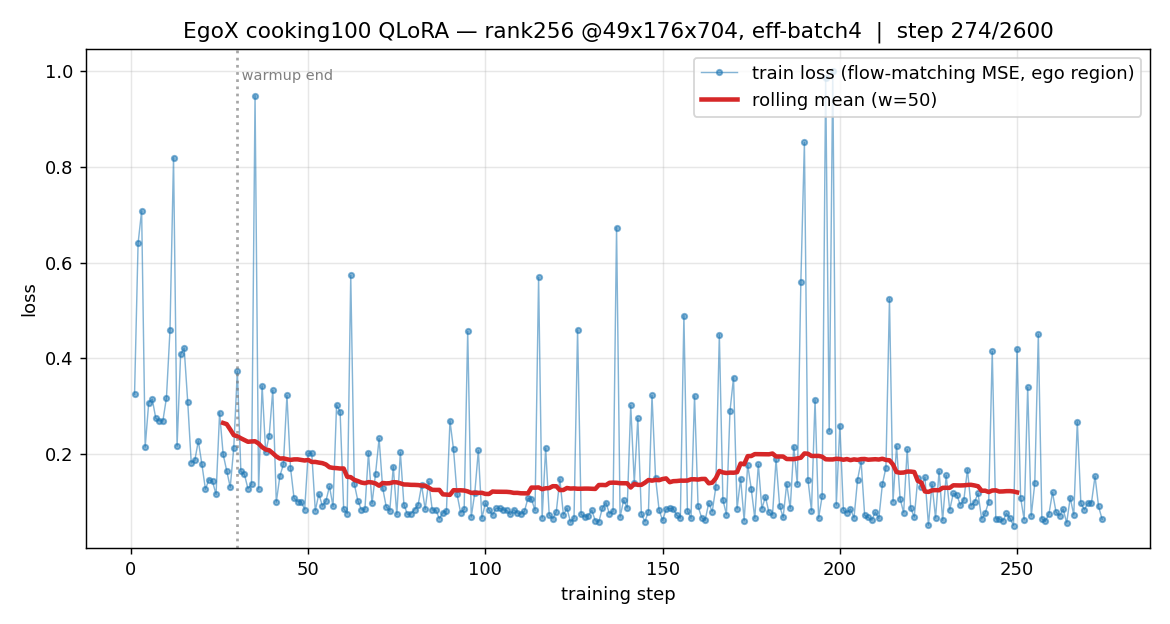
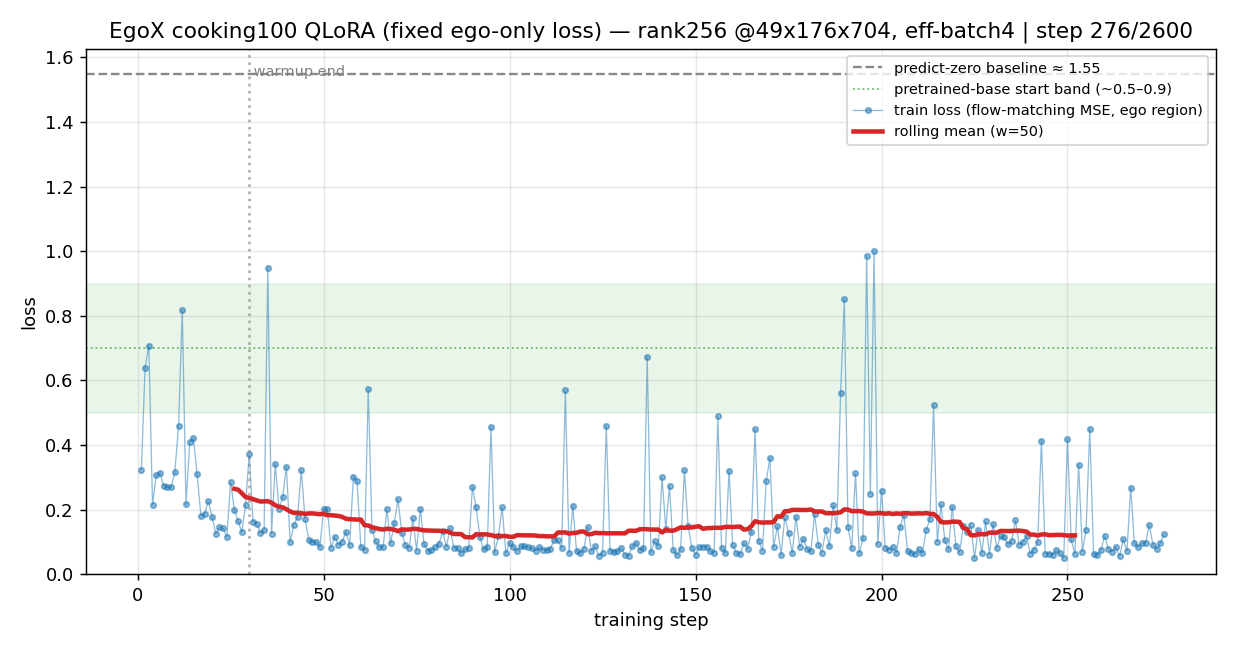
Prior investigation: vitL≈vitS + misalignment root-cause (depth geometry, not camera angle)
- §1 ego-prior: vitL empirical (coverage 0.330 vs 0.369, r=0.90 -> depth backbone
  not a lever) + prior<->ego_GT misalignment root-cause: orientation sweep shows the
  renderer's camera angle is CORRECT (ccw best of id/cw/ccw/180); the 'twist' is the
  point-cloud depth geometry (ViPE mono-depth scale + wide exo->ego baseline), a
  train/infer-consistent quality ceiling, not a bug. Levers updated (metric depth /
  MPS points; vitL ruled out).
- Add diagnostics: scripts/pipeline/run_vitL_prior_cmp.sh.
- Add eval/prior preview artifacts (GGA fix A/B, ego-cropped GT|Prior|Predicted,
  vitS-vs-vitL, orientation sweep, alignment overlays).

Changed region(s): [[0.0, 0.0304, 1.0, 0.9744], [0.5231, 0.3654, 0.5538, 0.3958], [0.1231, 0.2436, 0.1538, 0.274]]

diff --git a/QLORA_TRAINING_PLAN.md b/QLORA_TRAINING_PLAN.md
@@ -72,6 +72,14 @@ setsid nohup bash -c 'PYTHONNOUSERSITE=1 HF_HUB_ENABLE_HF_TRANSFER=0 \
 - Only the **depth** stage differs (VDA backbone). Intrinsics identical; per-clip speed ~same as vitL.
 - The win is **memory → parallelism**, not per-clip speed. Cost: slightly more temporal depth flicker.
 - Checkpoints local: `~/.cache/torch/hub/checkpoints/video_depth_anything_vits.pth` (+ dinov2_vits14, MoGe-2).
+- **EMPIRICAL (2026-06-24): vitL does NOT improve the prior.** Ran `lyra` (vitL) on
+  `fair_cooking_06_6_1000_1048` (isolated `/media/skr/SeagateHub1/egoexo4d/vitL_prior_cmp/`,
+  `local/run_vitL_prior_cmp.sh`) vs the dataset's vitS prior: prior **coverage 0.330 (vitL) vs 0.369
+  (vitS)** — vitL is marginally *sparser*; depths agree at **Pearson r=0.90 / 7.5% median rel-diff**
+  (vitL only adds depth range [0.4,30] vs [0.5,8.8], irrelevant to the close ego view). The prior's
+  sparsity is set by the **renderer** (background-only + subsample + splat + exo→ego occlusion), not
+  the depth backbone → **vitS is the right choice; upgrading depth is not a lever** (see §1 prior levers).
+  Compare GIF: `previews/prior_vitS_vs_vitL.gif`.
 
 ### Inspection previews (built for the 5-sample test)
 `previews/vits5_grid.png` (5× ego_GT|ego_Prior), `previews/vits5/<clip>_cmp.mp4` (exo|ego_GT|ego_Prior),
@@ -105,10 +113,26 @@ poorer than the paper's (vitS + no-SLAM + background-only) → it carries little
 which plausibly limits ceiling on hand-object fidelity. ckpt-100's predicted ego (coarse warm field where
 GT has food + gray blob where hands are) is consistent with "tracking the coarse prior, undertrained for detail."
 
-**Levers if priors prove limiting (cost ↑):** (a) vitL depth; (b) feed Aria MPS semi-dense SLAM points
-(renderer already prefers them → much denser); (c) larger `point_size` / no subsample / point dilation;
-(d) keep foreground (drop the `instance==0` filter) so hands appear in the prior. Defer until a *mature*
-checkpoint shows the prior — not training maturity — is the bottleneck.
+**Prior↔ego_GT MISALIGNMENT (investigated 2026-06-24):** overlaying the prior on ego_GT shows the
+board/counter are **warped/"twisted"**, not crisply aligned. Root-caused:
+- **NOT a camera-angle / projection-orientation bug.** `render_points_fisheye` (`:989-1005`) applies an
+  OpenCV→pytorch3d flip + a hard-coded **90° CCW** "aria_cam" rotation. Swept that rotation
+  (id/cw/ccw/180, `previews/prior_orient_row.png`): the default **ccw is the best of the four** (board
+  ~horizontal & central like GT; others rotate it away) → orientation handling is **correct**.
+- **IT IS the point-cloud depth geometry.** The residual warp survives every rotation → the 3D points are
+  mis-placed: **ViPE monocular-depth scale** (not metric-aligned to the Aria-MPS ego world) + **wide
+  exo→ego baseline** + pose error → points land at wrong distance and **smear along viewing rays**.
+  The projection math is fine; its *input geometry* is off. Chain: ViPE mono-depth cloud (exo frame,
+  up-to-scale) → Aria world via `T_cam_to_world=inv(exo_extrinsic)` (`:1369`) → ego fisheye. The
+  ViPE-metric ↔ Aria-metric scale mismatch is the prime suspect. Train/infer-CONSISTENT (same renderer
+  both sides) → a quality ceiling, not a correctness bug.
+
+**Levers if priors prove limiting (cost ↑):** (a) **metric/scale-aligned depth** (`metric_vda`, or solve
+the ViPE↔Aria depth scale from the ego poses) — most likely to fix the warp; (b) feed **Aria MPS
+semi-dense SLAM points** (renderer already prefers them → denser AND already in the Aria metric world,
+sidesteps the scale problem); (c) larger `point_size` / no subsample / dilation; (d) keep foreground
+(drop `instance==0`) so hands appear. **vitL is NOT a lever** (§1 vitS-vs-vitL: depth backbone ≈ no
+change). Defer until a *mature* checkpoint shows the prior — not training maturity — is the bottleneck.
 
 ---
 